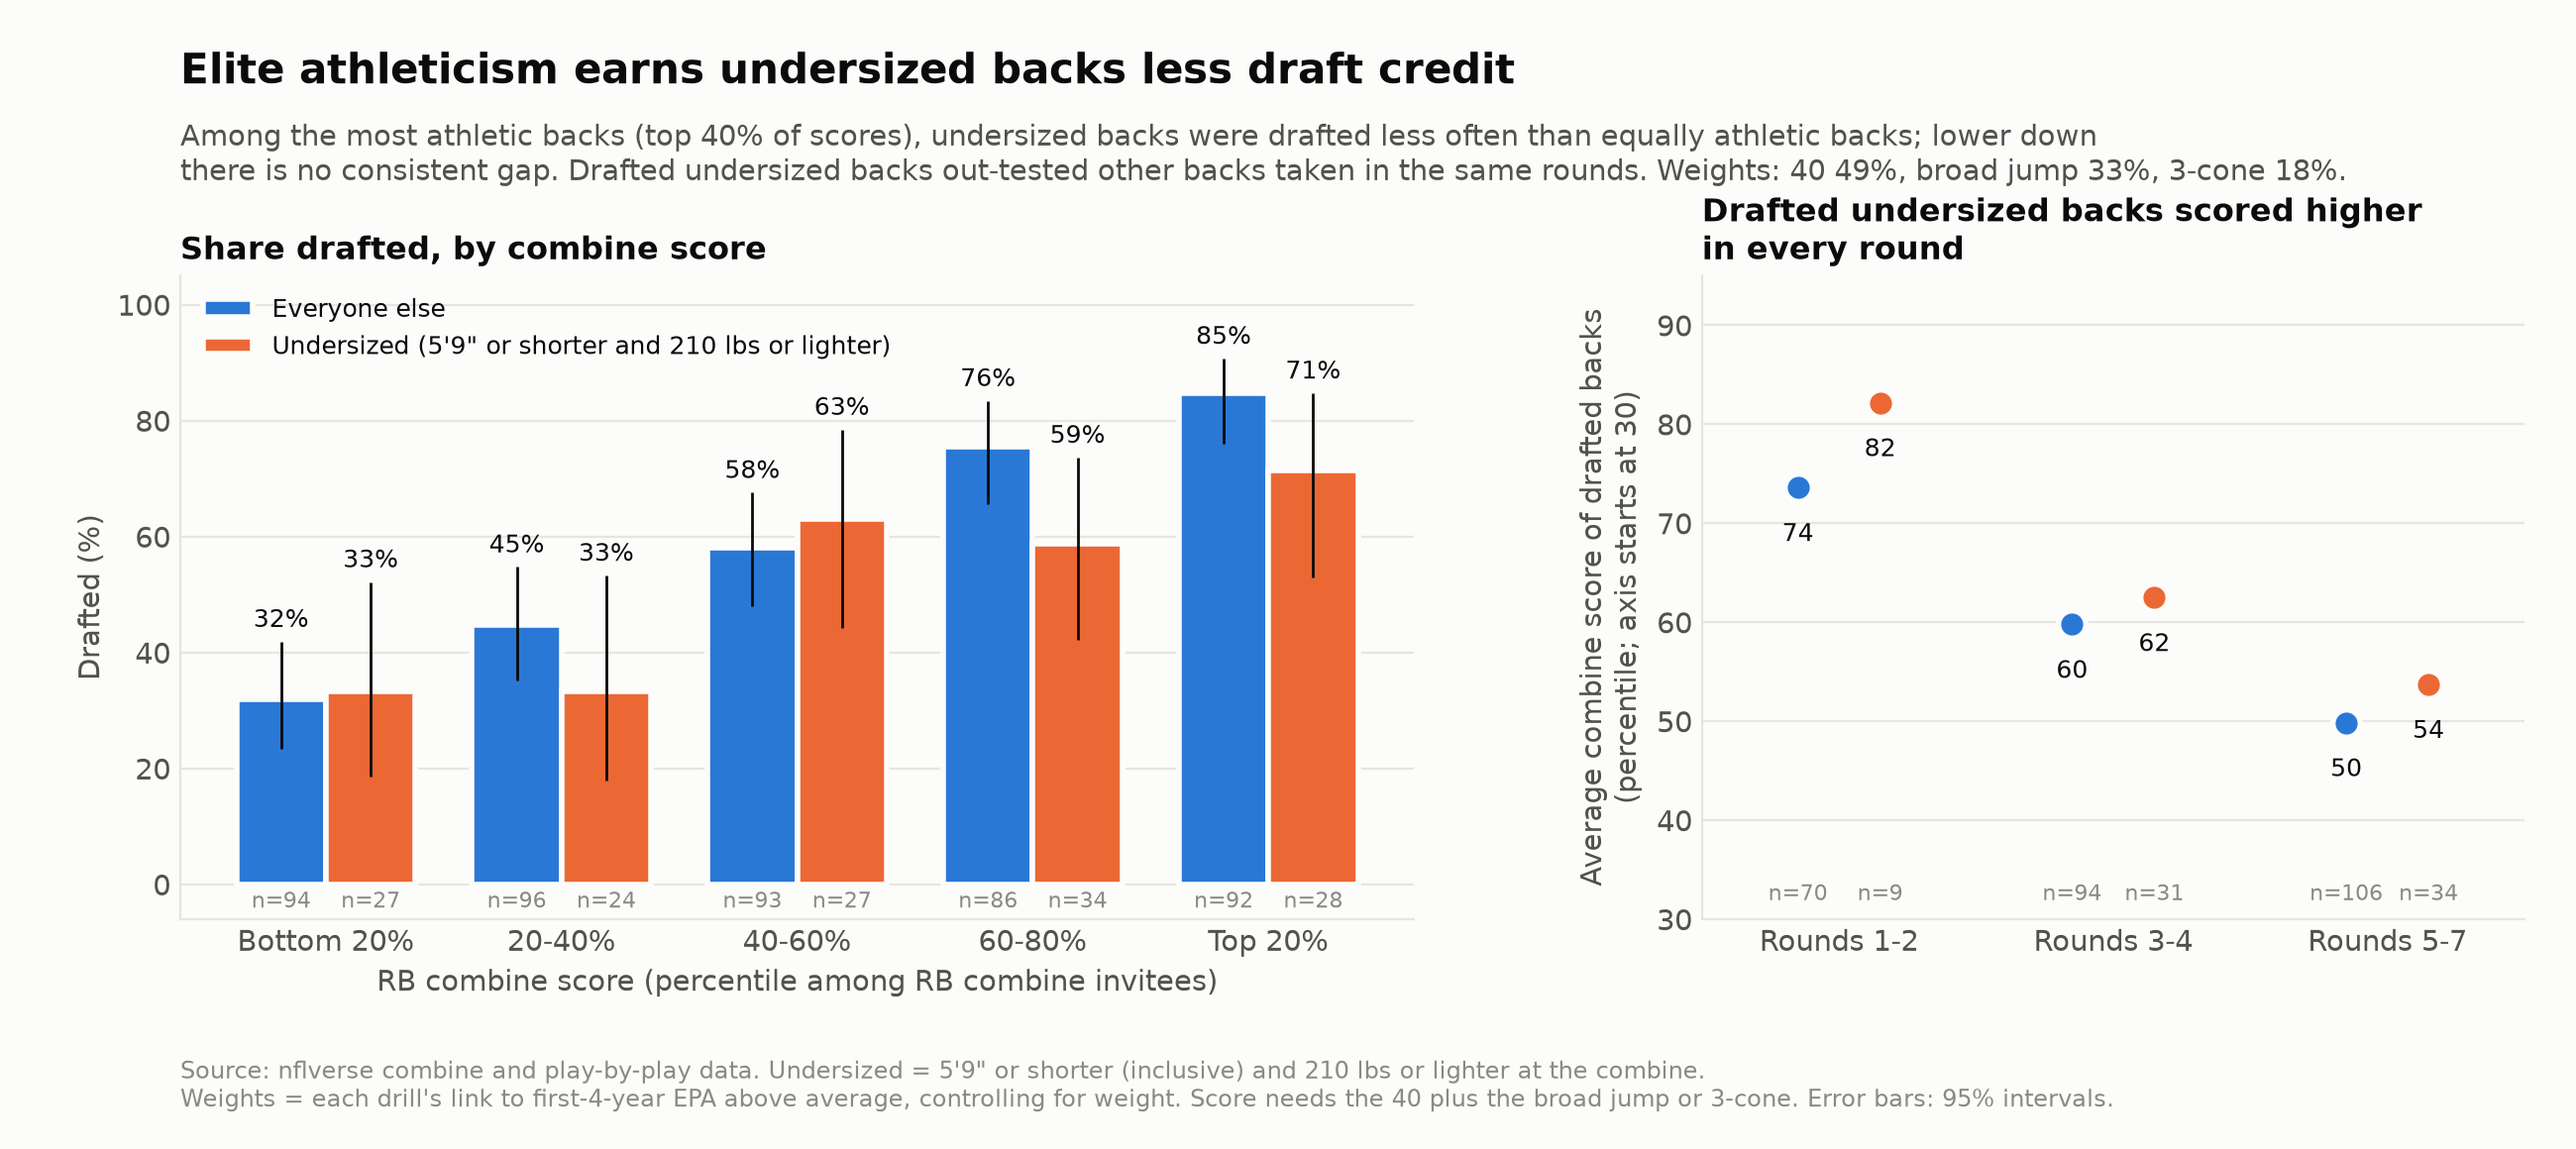
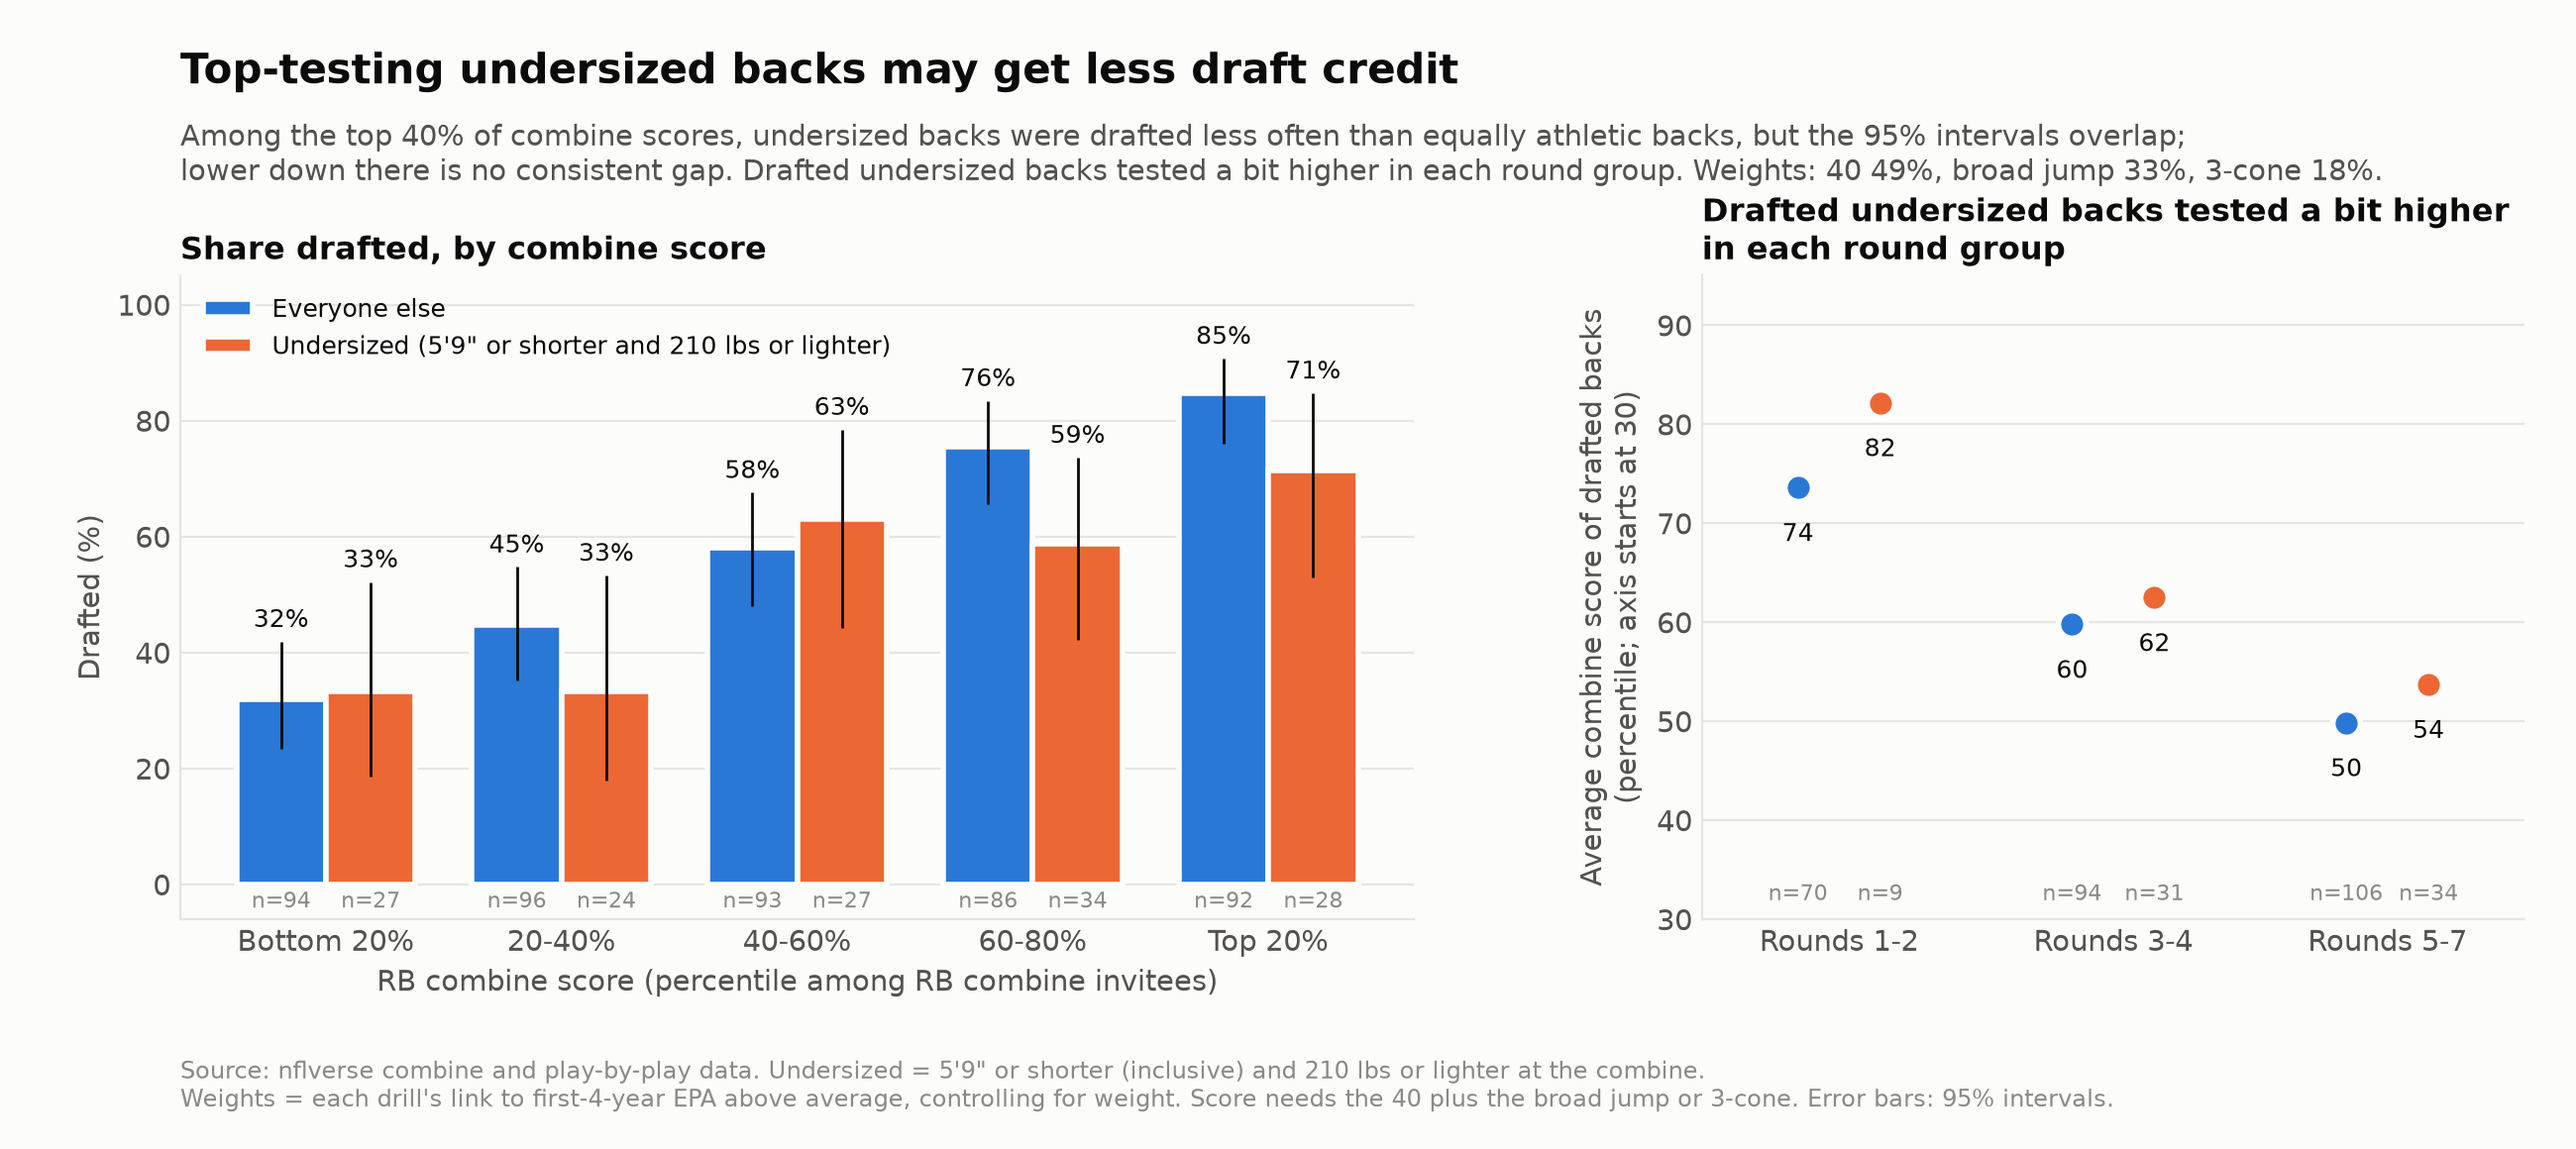
More Graph Adjustments
Revised wording on graph findings and titles.

Changed region(s): [[0.0623, 0.031, 0.9658, 0.2172], [0.6854, 0.1862, 0.81, 0.2483]]

diff --git a/combine_score.py b/combine_score.py
@@ -180,7 +180,7 @@ def plot_drafted_scores(ax, scored):
     ax.set_ylim(30, 95)
     ax.set_ylabel("Average combine score of drafted backs\n(percentile; axis starts at 30)", color=TEXT_2)
     # Two lines: the full title is wider than this narrower panel
-    ax.set_title("Drafted undersized backs scored higher\nin every round", loc="left", color=TEXT, fontsize=11.5, fontweight="bold")
+    ax.set_title("Drafted undersized backs tested a bit higher\nin each round group", loc="left", color=TEXT, fontsize=11.5, fontweight="bold")
 
 
 def plot_figure(scored, weights):
@@ -192,11 +192,11 @@ def plot_figure(scored, weights):
     plot_drafted_scores(right, scored)
 
     pct = {d: f"{weights[d] * 100:.0f}%" for d in DRILLS}
-    fig.text(0.07, 0.955, "Elite athleticism earns undersized backs less draft credit", fontsize=15, fontweight="bold", color=TEXT, va="top")
+    fig.text(0.07, 0.955, "Top-testing undersized backs may get less draft credit", fontsize=15, fontweight="bold", color=TEXT, va="top")
     fig.text(
         0.07, 0.895,
-        "Among the most athletic backs (top 40% of scores), undersized backs were drafted less often than equally athletic backs; lower down\n"
-        "there is no consistent gap. Drafted undersized backs out-tested other backs taken in the same rounds. "
+        "Among the top 40% of combine scores, undersized backs were drafted less often than equally athletic backs, but the 95% intervals overlap;\n"
+        "lower down there is no consistent gap. Drafted undersized backs tested a bit higher in each round group. "
         f"Weights: 40 {pct['forty']}, broad jump {pct['broad_jump']}, 3-cone {pct['cone']}.",
         fontsize=10.5, color=TEXT_2, va="top",
     )
